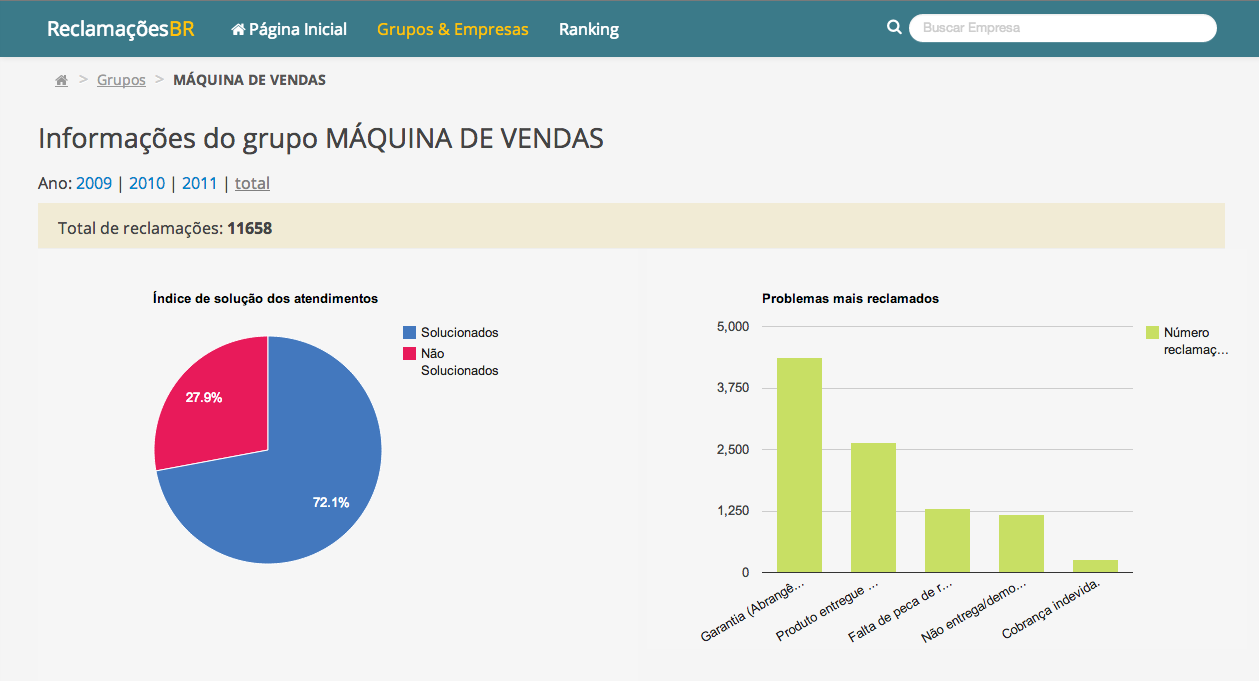
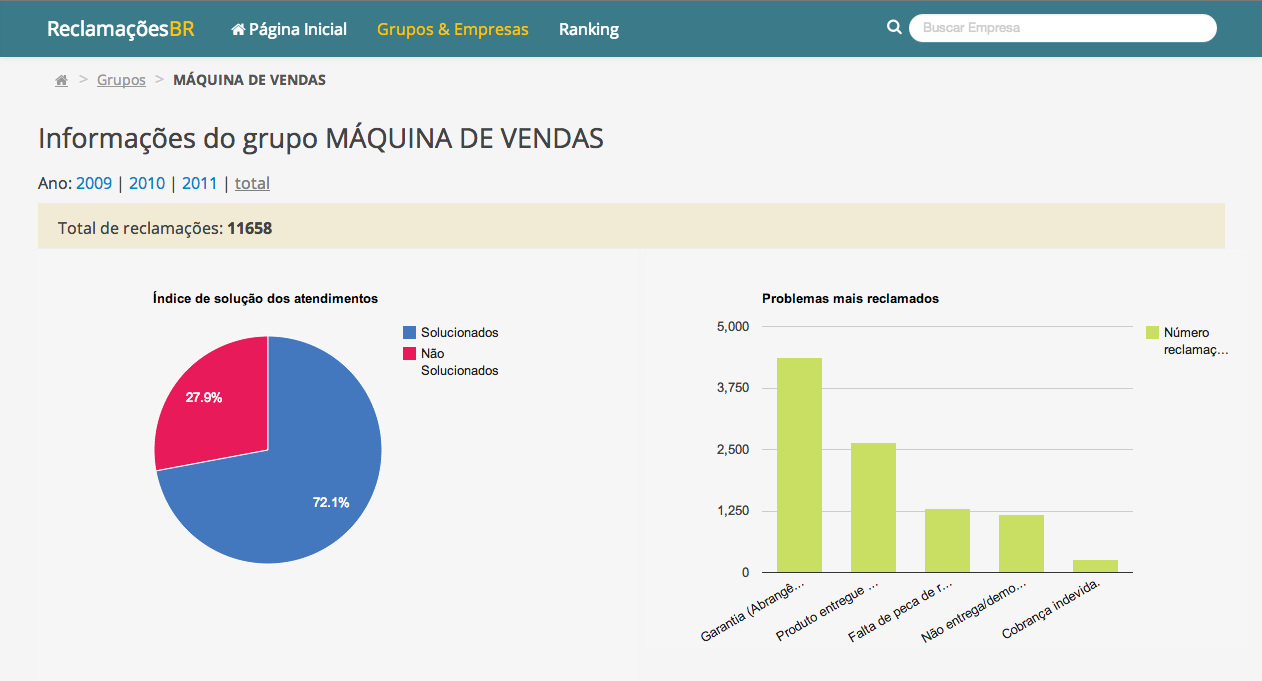
improving images

diff --git a/stylesheets/_base.scss b/stylesheets/_base.scss
@@ -15,6 +15,7 @@ ul {
 
 h1, h2, h3, h4, h5 {
   font-family: "OpenSansBold";
+  font-weight: normal;
 }
 
 h1 {
@@ -38,11 +39,11 @@ h5 {
 }
 
 strong {
-  font-style: normal;
+  font-weight: normal;
   font-family: "OpenSansBold";
 }
 
 em {
-  font-style: normal;
+  font-weight: normal;
   font-family: "OpenSansItalic";
 }
